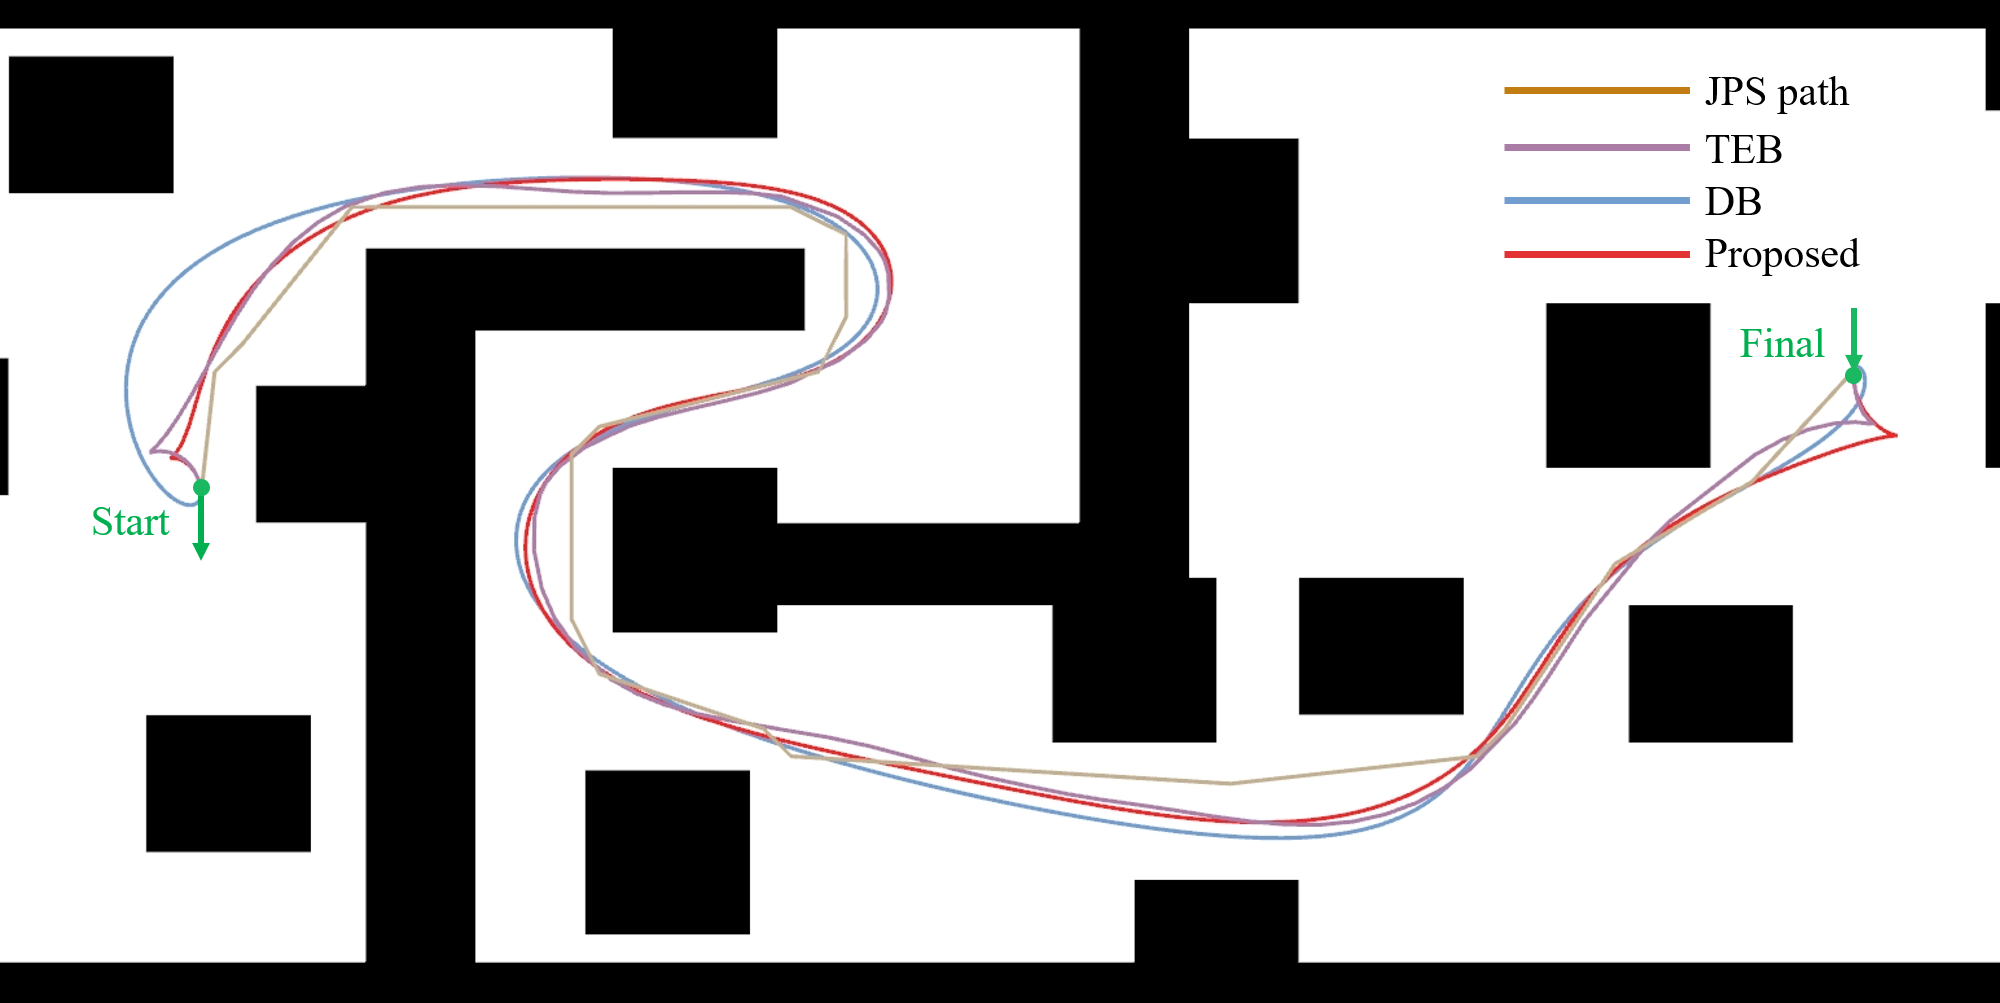
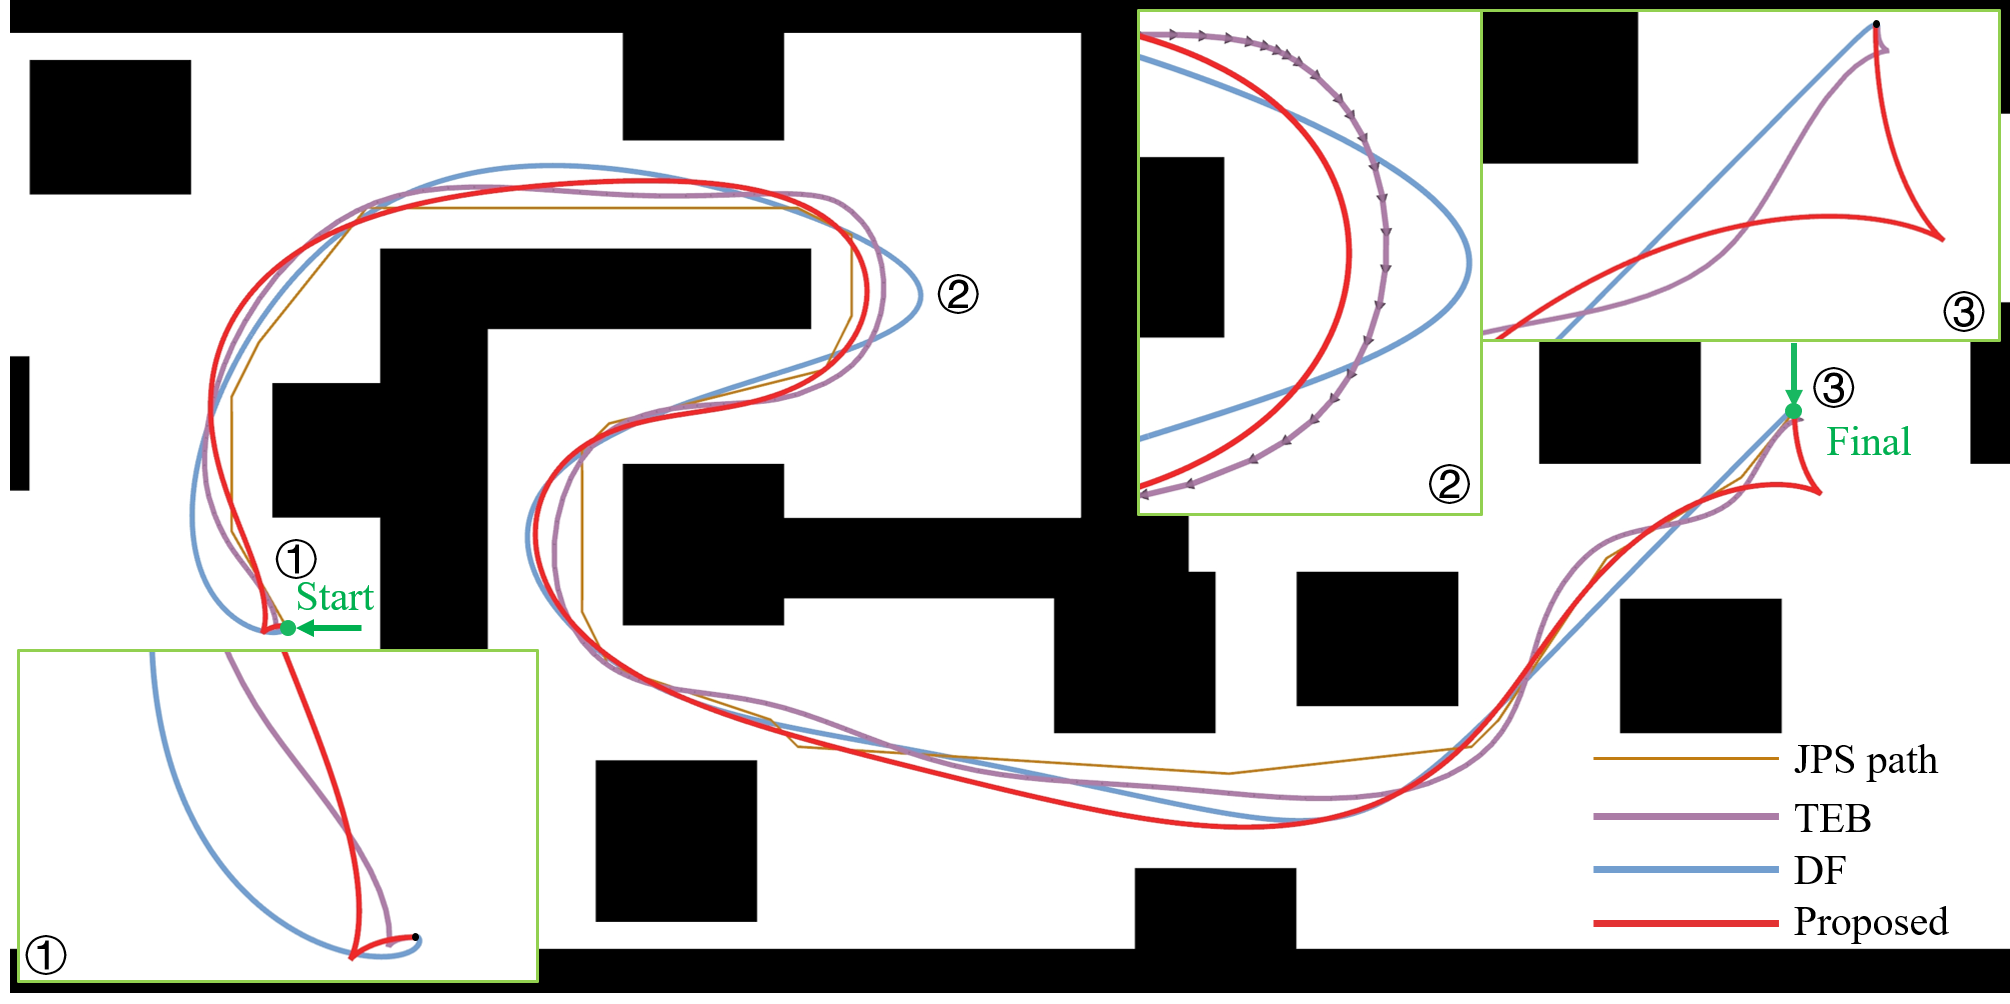
add rebuttal

diff --git a/index.html b/index.html
@@ -5,7 +5,7 @@
     <meta charset="UTF-8">
     <meta http-equiv="x-ua-compatible" content="ie=edge">
 
-    <title>SSD-opt</title>
+    <title>DDR-opt</title>
     <link rel="icon" type="image/x-icon" href="img/favicon.ico">
 
     <meta name="description" content="">
@@ -117,7 +117,7 @@
             <div class="col-md-4 col-md-offset-4 text-center">
                 <ul class="nav nav-pills nav-justified">
                     <li>
-                        <a href="https://arxiv.org/abs/2409.07924">
+                        <a href="https://arxiv.org/abs/2409.07924v2">
                             <image src="img/paper.png" height="60px">
                                 <h4><strong>Paper</strong></h4>
                         </a>
@@ -131,19 +131,19 @@
                         </a>
                     </li>
                     <li>
-                        <!-- <a href="https://www.bilibili.com/video/BV1iX4y1s7e6">
-                            <image src="img/bilibili_icon.png" height="60px">
+                        <a href="https://www.bilibili.com/video/BV1gJxveMEm8">
+                            <image src="img/bilibili_icon.png" height="50px">
                                 <h4><strong>Video</strong></h4>
-                        </a> -->                        
-                        <image src="img/comming.webp" height="60px">
-                            <h4><strong>Video</strong></h4>
+                        </a>
+                        <!-- <image src="img/comming.webp" height="60px">
+                            <h4><strong>Video</strong></h4> -->
                     </li>
-                    <!-- <li>
-                        <a href="https://youtu.be/i1ZsvC7HDqU">
+                    <li>
+                        <a href="https://youtu.be/fo64QufedPo">
                             <image src="img/youtube_icon.png" height="60px">
                                 <h4><strong>Video</strong></h4>
                         </a>
-                    </li> -->
+                    </li>
 
                 </ul>
             </div>
@@ -187,17 +187,33 @@
                 </h1>
                 <p class="text-justify">
                     Differential drive robots are widely used in various scenarios thanks to their straightforward principle, from household service robots to disaster response field robots.
-                    There are several types of driving mechanisms for real-world applications, including two-wheeled, four-wheeled skid-steering, tracked robots, and so on. 
-                    The differences in the driving mechanisms usually require specific kinematic modeling when precise control is desired. 
-                    Furthermore, the nonholonomic dynamics and possible lateral slip lead to different degrees of difficulty in getting feasible and high-quality trajectories.
-                    Therefore, a comprehensive trajectory optimization framework to compute trajectories efficiently for various kinds of differential drive robots is highly desirable.  
-                    In this paper, we propose a universal trajectory optimization framework that can be applied to differential drive robots, enabling the generation of high-quality trajectories within a restricted computational timeframe. 
+                    The nonholonomic dynamics and possible lateral slip of these robots lead to difficulty in getting feasible and high-quality trajectories. 
+                    Although there are several types of driving mechanisms for real-world applications, they all share a similar driving principle, which involves controlling the relative motion of independently actuated tracks or wheels to achieve both linear and angular movement.
+                    Therefore, a comprehensive trajectory optimization to compute trajectories efficiently for various kinds of differential drive robots is highly desirable.
+                    In this paper, we propose a universal trajectory optimization framework, enabling the generation of high-quality trajectories within a restricted computational timeframe for these robots. 
                     We introduce a novel trajectory representation based on polynomial parameterization of motion states or their integrals, such as angular and linear velocities, which inherently matches the robots' motion to the control principle. 
-                    The trajectory optimization problem is formulated to minimize complexity while prioritizing safety and operational efficiency.
+                    The trajectory optimization problem is formulated to minimize computation complexity while prioritizing safety and operational efficiency.
                     We then build a full-stack autonomous planning and control system to demonstrate its feasibility and robustness. 
                     We conduct extensive simulations and real-world testing in crowded environments with three kinds of differential drive robots to validate the effectiveness of our approach.
                 </p>
             </div>
+
+            <div class="col-md-8 col-md-offset-2">
+                <h1>
+                    System
+                </h1>
+                <div class="text-center">
+                    <img src="img/Block_Diagram4.png" class="mx-auto d-block" width="90%" />
+                </div>
+                <div style="width: 90%; margin-left: auto; margin-right: auto; font-size: 14px">
+                    Overview of the a example navigation system with our planner. 
+                    In perception, lidar is used for Lidar-Inertial Odometry (LIO) and mapping.
+                    With the result of odometry and ESDF map, our planner uses Jump Point Search (JPS) to get the global path (brown) and to generate the initial MS trajectory (purple). 
+                    Trajectory pre-processing (blue) ensures close alignment of the trajectory with the global path. 
+                    The Augmented Lagrangian Method (ALM) iteratively optimizes the trajectory to satisfy constraints (yellow) and reach the desired final positions (red).
+                    The system uses pre-integration to get the reference trajectory and selects appropriate NMPC controller depending on the driving method.
+                </div>
+            </div>     
         </div>
         <div class="row">
             <div class="col-md-8 col-md-offset-2">
@@ -208,27 +224,30 @@
                     <img src="img/tracked_traj.png" class="mx-auto d-block" width="70%" />
                 </div>
                 <div style="width: 70%; margin-left: auto; margin-right: auto; font-size: 14px">
-                    Planning results without(a) and with(b) considering lateral slip.
-                    To better reflect the discrepancy between the two results, we locally enlarged the trajectory sections with large curvature.
+                    Planning results of TEB (a), and the proposed method without (b) and with (c) lateral slip of $x_{Iv}$, when lateral slip cannot be ignored. 
+                    We calculate the average tracking error and maximum tracking error of the controller. 
+                    By modeling lateral slip into the MS trajectory, the controller achieves better performance in tracking the proposed trajectory.
                 </div>
             <br>
                 <div class="text-center">
                     <img src="img/comp_method.png" class="mx-auto d-block" width="70%" />
                 </div>
                 <div style="width: 70%; margin-left: auto; margin-right: auto; font-size: 14px">
-                    Visual comparison of different methods. Proposed method and TEB are set to allow move backward.  
-                    We use Jump Point Search (JPS) as initial value, Differential-flatness Based Method, Timed Elastic Band (TEB) as benchmark. 
+                    Visual comparison of different methods. Proposed method and TEB are set to allow moving backward.
+                    To better illustrate the details, we zoom in three areas(\textcircled{1} to \textcircled{3}) with distinct differences.
+                    Specifically, in region \textcircled{2}, we show the via-points of TEB.
                 </div>
             <br>
                 <div class="text-center">
                     <img src="img/patrol.png" class="mx-auto d-block" width="70%" />
                 </div>
                 <div style="width: 70%; margin-left: auto; margin-right: auto; font-size: 14px">
-                    Patrolling with DFB and Proposed methods, the next target is provided to the planner upon nearing the current target. 
-                    ① is the starting position, with the initial state directed towards the positive right-hand side. 
-                    We use the gradient color to show the angular velocity in ②-④. 
-                    The robot moves around the obstacle in ②. 
-                    In ③ and ④, a new target is provided to the planner, prompting the robot to turn towards the new target.
+                    Patrolling with DF and Proposed methods, the next target is provided to the planner upon nearing the current target.
+                    We zoom in four position(\textcircled{1} -- \textcircled{4}) to show the smoothness and efficiency difference.
+                    \textcircled{1} is the starting position, with the initial state directed towards the positive right-hand side. 
+                    We use the gradient color to show the angular velocity in \textcircled{2}-\textcircled{4}. 
+                    The robot moves around the obstacle in \textcircled{2}. 
+                    In \textcircled{3} and \textcircled{4}, a new target is provided to the planner, prompting the robot to turn towards the new target.
                 </div>
         </div>
         
